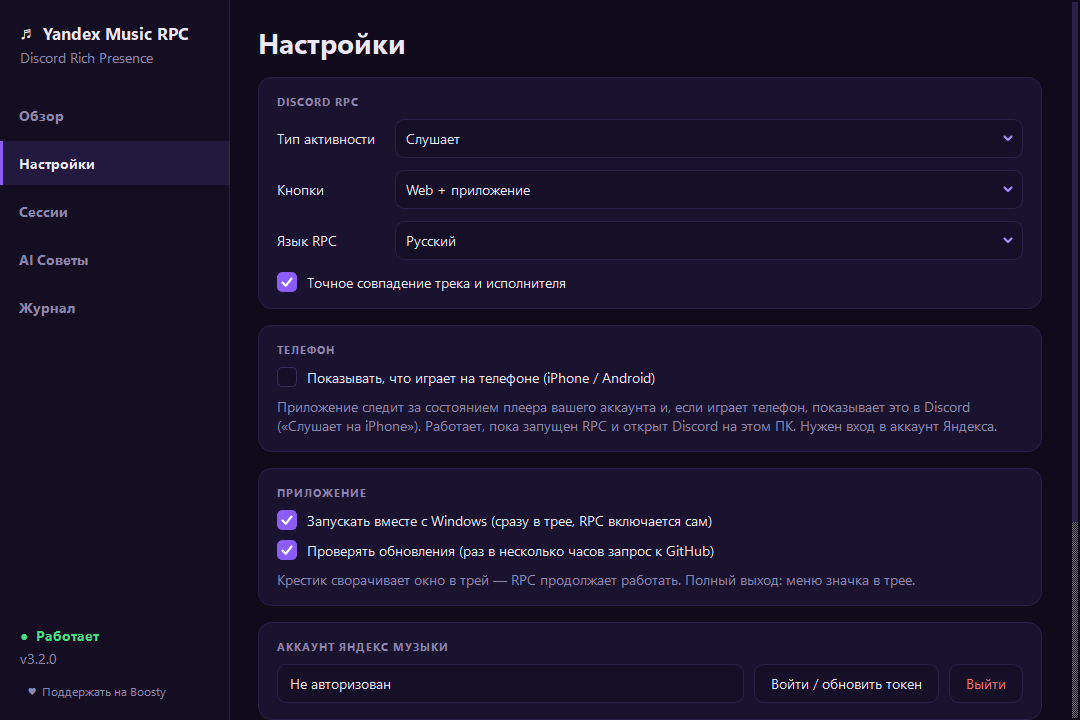
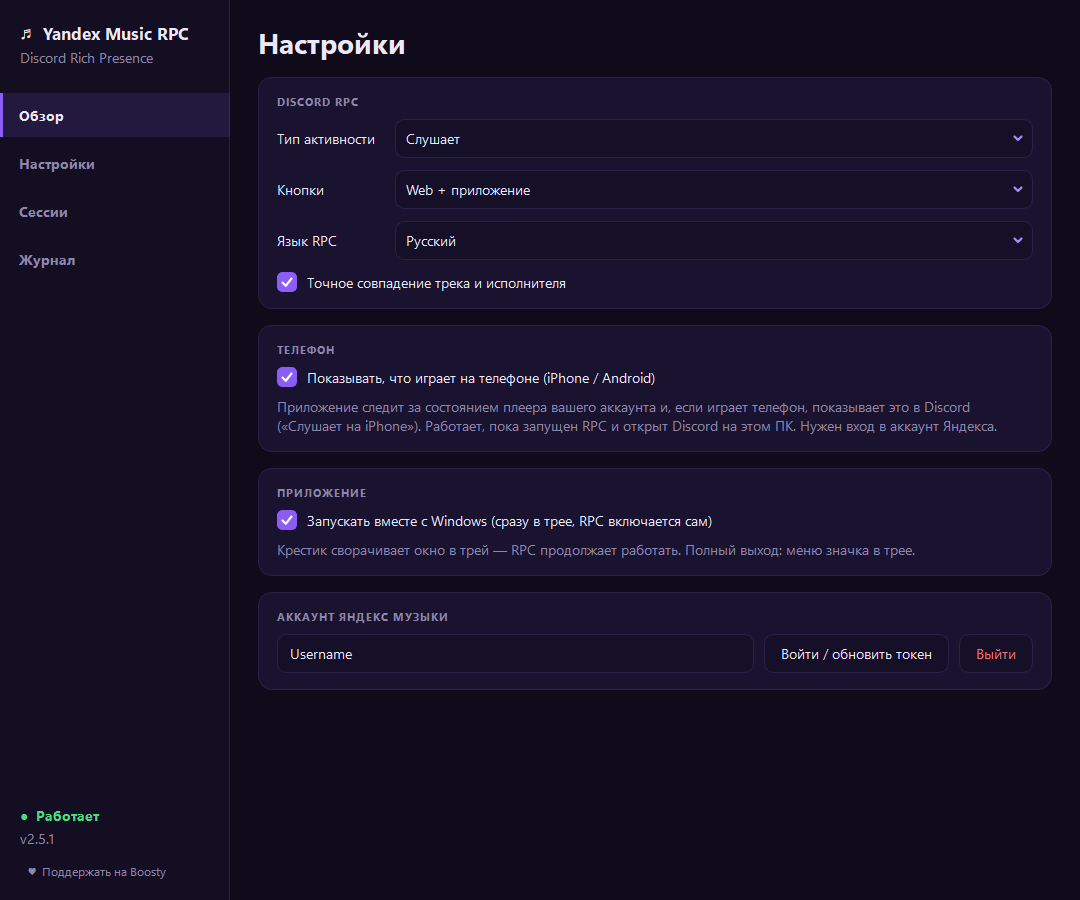
docs: restore original screenshots and remove broken captures

diff --git a/README.md b/README.md
@@ -13,7 +13,7 @@
 *English: a Discord Rich Presence (RPC) app for Yandex Music on Windows. It shows the track you are listening to in your Discord status, including music playing on your iPhone or Android phone. [Jump to English](#english).*
 
 <p align="center">
-  <img src="docs/screenshots/overview.png?v=3.2.0" alt="Yandex Music RPC: главное окно приложения со статусом Discord" width="720">
+  <img src="docs/screenshots/overview.png" alt="Yandex Music RPC: главное окно приложения со статусом Discord" width="720">
 </p>
 
 [**⬇ Скачать последнюю версию**](../../releases/latest) · [Как это настроить](#быстрый-старт) · [Частые вопросы](#частые-вопросы) · [English](#english)
@@ -79,7 +79,7 @@ pyinstaller --noconfirm gui_app.spec
 
 ### Настройки
 <p align="center">
-  <img src="docs/screenshots/settings.png?v=3.2.0" alt="Yandex Music RPC: настройки приложения" width="620">
+  <img src="docs/screenshots/settings.png" alt="Yandex Music RPC: настройки приложения" width="620">
 </p>
 
 | Параметр | Что делает |
@@ -96,10 +96,6 @@ pyinstaller --noconfirm gui_app.spec
 | Количество треков | Сколько рекомендаций подбирать за один раз (от 4 до 10) |
 
 ### AI Советы и рекомендации (Gemini)
-<p align="center">
-  <img src="docs/screenshots/recommendations.png?v=3.2.0" alt="Yandex Music RPC: AI Советы Gemini" width="620">
-</p>
-
 Приложение накапливает историю прослушанных треков в локальной базе данных SQLite (`%LOCALAPPDATA%\WinYandexMusicRPC\history.db`). Во вкладке **«AI Советы»** нейросеть Gemini выступает в роли личного музыкального куратора:
 - **5 режимов подбора:** на основе недавней истории, похожее на текущий трек, музыкальные открытия (Discovery), энергичное и драйвовое, спокойное и атмосферное.
 - **Проверка в каталоге Яндекс Музыки:** для каждой рекомендации от AI приложение автоматически находит официальный трек, загружает обложку и даёт прямую ссылку на трек/альбом.
